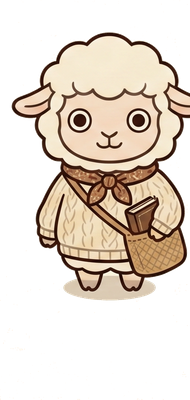
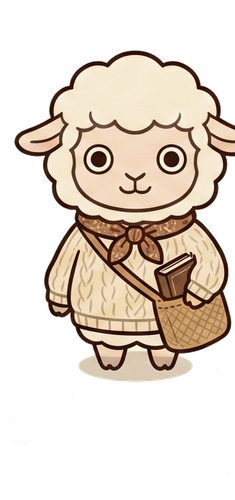
アバター：固定矩形crop+紙色のみ透過で全身統一表示／名前・trait同期即時化
- 各シートで同一サイズの固定crop範囲で全15体を出力（500x1060 / 240x550）
- 密度検出を廃止し、紙色パターンのみをフラッドフィルで透過
- 全キャラが同じアスペクト比・同じ位置に配置され、CSS grid で揃って表示
- setUserName / saveMyTraits で即時 pushToCloud 呼び出し、
  名前・プロフィール入力後リロードで消失するバグを修正
- キャッシュバスター v=20260419i

Changed region(s): [[0.0526, 0.06, 1.0, 0.78]]

diff --git a/app/app.js b/app/app.js
@@ -186,6 +186,10 @@ function getUserName() {
 function setUserName(name) {
   if (name && name.trim()) localStorage.setItem(USER_NAME_KEY, name.trim());
   else localStorage.removeItem(USER_NAME_KEY);
+  // 即時Firestore同期（リロード時の上書き防止）
+  if (typeof window.pushToCloud === 'function' && typeof currentUser !== 'undefined' && currentUser) {
+    window.pushToCloud(currentUser).catch(() => {});
+  }
 }
 
 const MAX_ROUTINE_SLOTS = 3;
@@ -521,6 +525,9 @@ function loadMyTraits() {
 }
 function saveMyTraits(obj) {
   localStorage.setItem(MY_TRAITS_KEY, JSON.stringify(obj));
+  if (typeof window.pushToCloud === 'function' && typeof currentUser !== 'undefined' && currentUser) {
+    window.pushToCloud(currentUser).catch(() => {});
+  }
 }
 
 // DBから全traitの選択肢を集計（＋ユーザー向けの普遍的な選択肢を合成）

diff --git a/app/index.html b/app/index.html
@@ -70,7 +70,7 @@
 <link rel="preconnect" href="https://fonts.googleapis.com">
 <link rel="preconnect" href="https://fonts.gstatic.com" crossorigin>
 <link href="https://fonts.googleapis.com/css2?family=Cormorant+Garamond:ital,wght@0,400;0,600;0,700;1,400;1,600&family=Playfair+Display:ital,wght@0,400;0,700;0,900;1,400&family=Shippori+Mincho:wght@400;600;700;800&display=swap" rel="stylesheet">
-<link rel="stylesheet" href="style.css?v=20260419h">
+<link rel="stylesheet" href="style.css?v=20260419i">
 </head>
 <body>
   <header class="app-header">
@@ -453,8 +453,8 @@
     </div>
   </div>
 
-  <script src="app.js?v=20260419h"></script>
-  <script src="auth.js?v=20260419h" type="module"></script>
+  <script src="app.js?v=20260419i"></script>
+  <script src="auth.js?v=20260419i" type="module"></script>
   <script src="ai-consult.js"></script>
 </body>
 </html>
